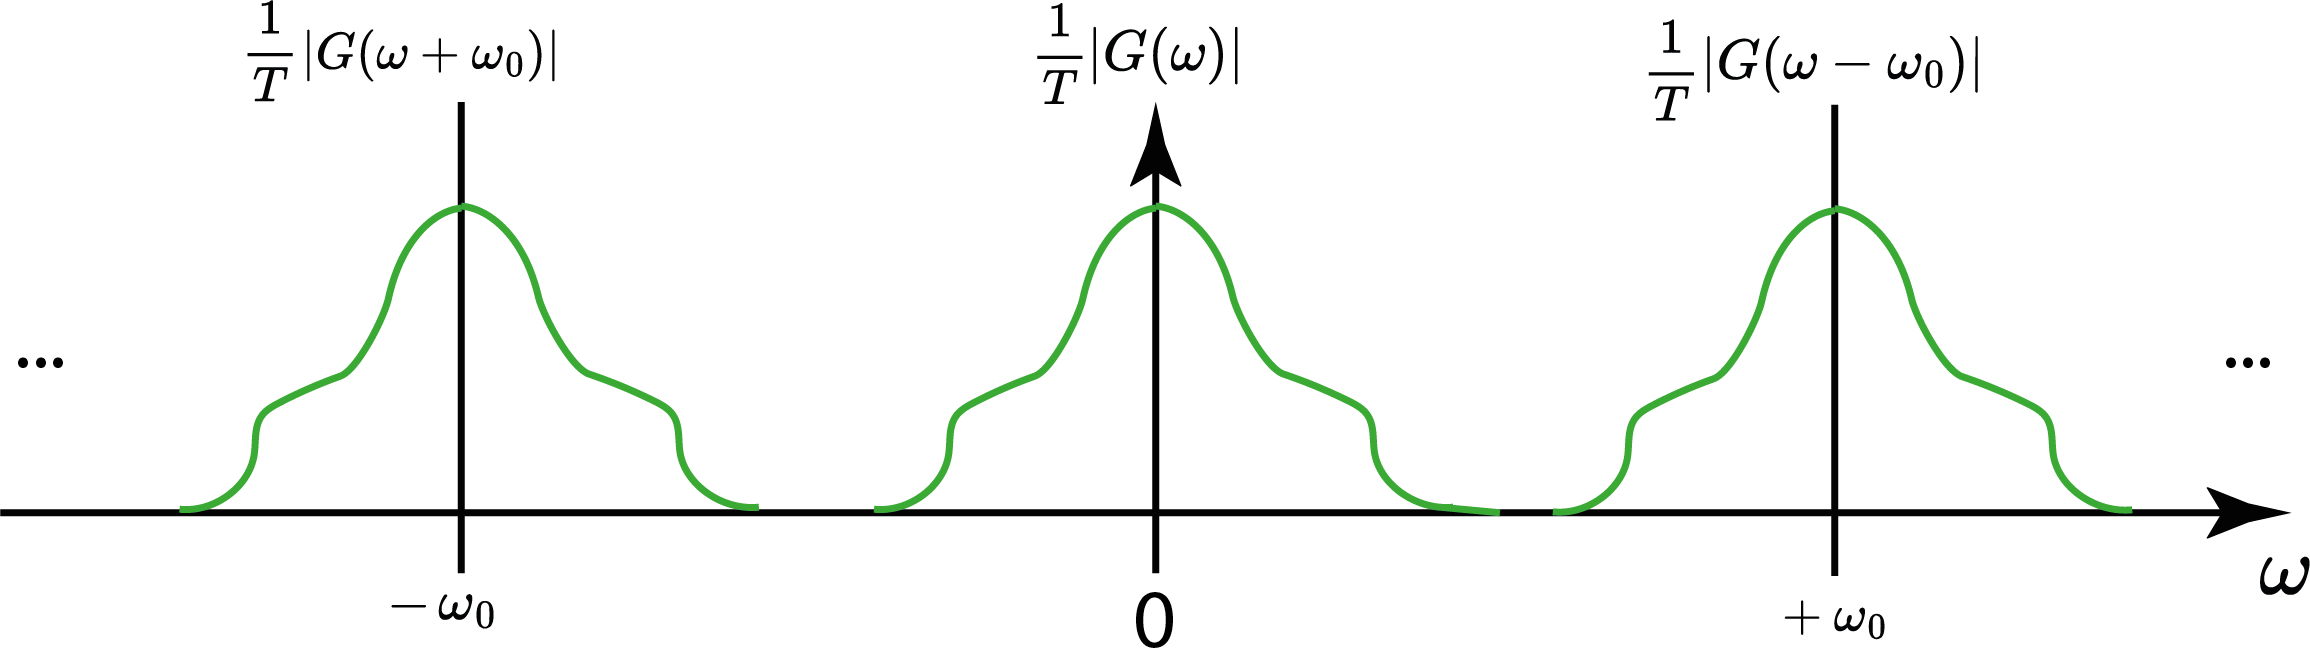
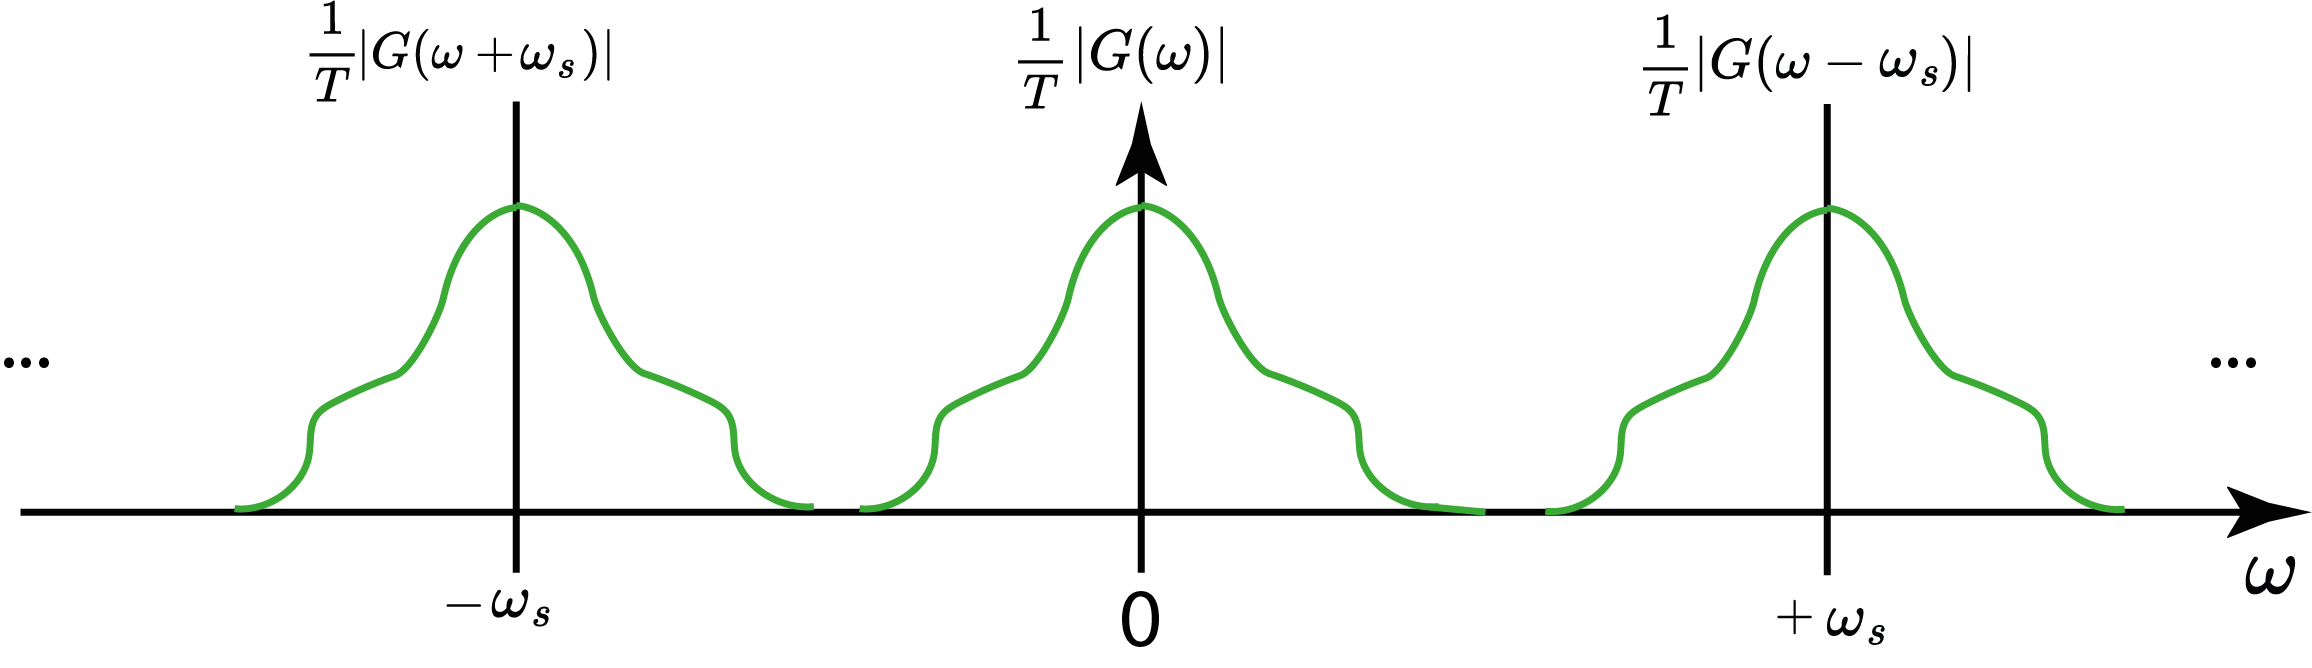
aula 2 updated

diff --git a/2024/aula2.html b/2024/aula2.html
@@ -306,7 +306,7 @@
 					<div class="slide-content">
 						<center>
 							$$
-							p(t)=\sum_{k-\infty}^\infty c_ke^{jk\omega_0 t},\quad\omega_0=\frac{2\pi}{T}
+							p(t)=\sum_{k-\infty}^\infty c_ke^{jk\omega_s t},\quad\omega_s=\frac{2\pi}{T}
 							$$
 										
 						<img src="../images/trem_impulsos.png" width="750" alt="">
@@ -324,7 +324,7 @@
 					<div class="slide-content">
 						<center>
 							$$
-							p(t)=\sum_{k-\infty}^\infty \frac{1}{T}e^{jk\omega_0 t},\quad\omega_0=\frac{2\pi}{T}
+							p(t)=\sum_{k-\infty}^\infty \frac{1}{T}e^{jk\omega_s t},\quad\omega_s=\frac{2\pi}{T}
 							$$
 										
 						<img src="../images/trem_impulsos.png" width="750" alt="">
@@ -345,7 +345,7 @@
 					<div class="slide-content">
 						<center>
 							$$
-							g_a(t)=g(t)p(t)=\sum_{k-\infty}^\infty \frac{1}{T}g(t)e^{jk\omega_0 t}
+							g_a(t)=g(t)p(t)=\sum_{k-\infty}^\infty \frac{1}{T}g(t)e^{jk\omega_s t}
 							$$
 										
 					
@@ -353,11 +353,11 @@
 					</center>
 					<center class="fragment">
 						$$
-						\Rightarrow G_a(\omega)=\mathcal{F}\{g_a(t)\}=\sum_{k-\infty}^\infty \frac{1}{T}\mathcal{F}\{g(t)e^{jk\omega_0 t}\}
+						\Rightarrow G_a(\omega)=\mathcal{F}\{g_a(t)\}=\sum_{k-\infty}^\infty \frac{1}{T}\mathcal{F}\{g(t)e^{jk\omega_s t}\}
 						$$
 					</center>
 					<center class="fragment lightup">
-						$\mathcal{F}\{x(t)e^{j\omega_0t}\}=X(\omega-\omega_0)$
+						$\mathcal{F}\{x(t)e^{j\omega_st}\}=X(\omega-\omega_s)$
 					</center>
 					   </div>
 
@@ -373,7 +373,7 @@
 					<div class="slide-content">
 						<center class="lightup">
 						$$
-						G_a(\omega)=\sum_{k-\infty}^\infty \frac{1}{T}G(\omega-k\omega_0)
+						G_a(\omega)=\sum_{k-\infty}^\infty \frac{1}{T}G(\omega-k\omega_s)
 						$$
 					</center>
 					<center>
@@ -395,7 +395,7 @@
 					<center>
 					<img src="../images/espectro_sinal_amostrado.png">
 					$$
-						\omega_0=\frac{2\pi}{T}
+						\omega_s=\frac{2\pi}{T}
 					$$
 				</center>
 		
@@ -451,9 +451,9 @@
 					</div>
 					<div class="slide-content">
 					<center>
-					<img src="../images/espectro_sinal_amostrado3.png">
+					<img src="../images/sinal_amostrado_distancia.png">
 					$$
-						\omega_0=\frac{2\pi}{T}
+						\omega_s=\frac{2\pi}{T}
 					$$
 				</center>
 		
@@ -474,15 +474,34 @@
 					<center>
 					<img src="../images/espectro_sinal_amostrado2.png">
 					$$
-						\omega_0=\frac{2\pi}{T},\quad \downarrow T
+						\omega_s=\frac{2\pi}{T},\quad \downarrow T
 					$$
-					<p><b>Diminuir o tempo de amostragem</b></p>
+					<p><b>Diminuir o tempo de amostragem aumenta a distância</b></p>
 				</center>
 		
 					   </div>
 
 				</section>
 
+
+
+				<section>
+
+					<div class="slide-title">
+						<h2>Processo de amostragem</h2>
+					</div>
+					<div class="slide-content">
+					<center>
+					<img src="../images/espectro_sinal_amostrado3.png">
+					$$
+						\omega_s=\frac{2\pi}{T},\quad \uparrow T
+					$$
+					<p><b>Aumentar o tempo de amostragem diminui a distância</b></p>
+				</center>
+		
+					   </div>
+
+				</section>
 
 
 				<section>
@@ -493,25 +512,6 @@
 					<div class="slide-content">
 					<center>
 					<img src="../images/espectro_sinal_amostrado4.png">
-					$$
-						\omega_0=\frac{2\pi}{T},\quad \uparrow T
-					$$
-					<p><b>Aumentar o tempo de amostragem</b></p>
-				</center>
-		
-					   </div>
-
-				</section>
-
-
-				<section>
-
-					<div class="slide-title">
-						<h2>Processo de amostragem</h2>
-					</div>
-					<div class="slide-content">
-					<center>
-					<img src="../images/espectro_sinal_amostrado5.png">
 					<p><b>Aliasing!</b></p>
 				</center>
 		
@@ -527,7 +527,7 @@
 					</div>
 					<div class="slide-content">
 					<center>
-					<img src="../images/espectro_sinal_amostrado5_filtro.png">
+					<img src="../images/espectro_sinal_amostrado4_filtro.png">
 					<b>Filtro Ideal</b>
 					$$
 						H(\omega)=\begin{cases} 
@@ -549,10 +549,10 @@
 					</div>
 					<div class="slide-content">
 					<center>
-					<img src="../images/espectro_sinal_amostrado_freqmin.png">
+					<img src="../images/teorema_nyquist.png">
 					<p class="lightup">
 				$
-						\omega_0 \ge 2\omega_M [rads]
+						\omega_s \ge 2\omega_M [rads]
 				$
 			</p>
 				</center>
@@ -571,7 +571,7 @@
 					</div>
 					<div class="slide-content">
 					<center>
-					<img src="../images/espectro_sinal_amostrado_freqmin.png">
+					<img src="../images/teorema_nyquist.png">
 					<p class="lightup">
 				$
 						f_s \ge 2f_M [Hz]
@@ -871,7 +871,7 @@
 					<div class="slide-content">
 					<center>
 						$$
-						\omega_M=30[rads] \Rightarrow \omega_0>60[rads]
+						\omega_M=30[rads] \Rightarrow \omega_s>60[rads]
 						$$
 
 						<img src="../images/espectro_sinal_exp_cos2.png" width="600">
@@ -895,7 +895,7 @@
 						
 						<p class="lightup">
 						$$
-						\omega_0>10\omega_M
+						\omega_s>10\omega_M
 						$$					
 					</p>
 					Para sistemas de controle digital, é uma boa prática adotar sempre frequência de amostragem 10x maior que a frequência máxima contida na saída do sistema.
@@ -969,14 +969,14 @@
 						
 						$$
 						y(t)=y_a(t)\ast h(t)\\
-						=\int_{-\infty}^\infty \sum_{k=-\infty}^\infty y(kT)\delta(\tau-kT)\text{sinc}(\frac{\pi (t-\tau)}{T})d\tau\\
+						=\int_{-\infty}^\infty \sum_{k=-\infty}^\infty y(kT)\delta(\tau-kT)\text{sinc}\Bigl(\frac{\pi (t-\tau)}{T}\Bigr)d\tau\\
 						
 
 						$$				
 						
 						<p class="fragment lightup">
 							Portanto,
-$$y(t)=\sum_{k=-\infty}^\infty y(kT)\text{sinc}(\frac{\pi (t-kT)}{T})$$
+$$y(t)=\sum_{k=-\infty}^\infty y(kT)\text{sinc}\Bigl(\frac{\pi (t-kT)}{T}\Bigr)$$
 
 						</p>
 					
@@ -1148,31 +1148,11 @@ $$y(t)=\sum_{k=-\infty}^\infty y(kT)\text{sinc}(\frac{\pi (t-kT)}{T})$$
 				</section>
 
 
+	
 				<section>
 
 					<div class="slide-title">
-						<h2>Zero Order Hold </h2>
-					</div>
-					<div class="slide-content">
-					<center>
-						<p>&nbsp;</p>
-						
-						<img src="../images/AD_DA_reconstrucao.png" width="800">
-						
-						
-			
-					
-				</center>
-		
-					   </div>
-
-				</section>
-
-
-				<section>
-
-					<div class="slide-title">
-						<h2>Zero Order Hold </h2>
+						<h2>Zero Order Hold (ZOH) </h2>
 					</div>
 					<div class="slide-content">
 					<center>
@@ -1194,7 +1174,7 @@ $$y(t)=\sum_{k=-\infty}^\infty y(kT)\text{sinc}(\frac{\pi (t-kT)}{T})$$
 				<section>
 
 					<div class="slide-title">
-						<h2>Zero Order Hold </h2>
+						<h2>Zero Order Hold (ZOH) </h2>
 					</div>
 					<div class="slide-content">
 					<center>
@@ -1217,7 +1197,7 @@ zoh(t)=u(t)-u(t-T)
 				<section>
 
 					<div class="slide-title">
-						<h2>Zero Order Hold </h2>
+						<h2>Zero Order Hold (ZOH)</h2>
 					</div>
 					<div class="slide-content">
 					<center>
@@ -1239,7 +1219,7 @@ ZOH(s)=\frac{1}{s}-\frac{1}{s}e^{-sT}
 				<section>
 
 					<div class="slide-title">
-						<h2>Zero Order Hold </h2>
+						<h2>Zero Order Hold (ZOH)</h2>
 					</div>
 					<div class="slide-content">
 					<center>
@@ -1269,8 +1249,8 @@ ZOH(s)=\frac{1-e^{-sT}}{s}
 					
 						$$
 ZOH(\omega)=\frac{1-e^{-j\omega T}}{j\omega }\\
-=e^{-j\frac{\omega T}{2}}\Bigl(\frac{e^{j\omega T/2}-e^{-j\omega T/2}}{j\omega}\Bigr)\frac{2T}{2T}\\
-=T\text{sinc}(\frac{\omega T}{2})e^{-j\omega T/2}
+=e^{-j\frac{\omega T}{2}}\Bigl(\frac{e^{j\frac{\omega T}{2}}-e^{-j\frac{\omega T}{2}}}{j\omega}\Bigr)\frac{2T}{2T}\\
+=T\text{sinc}\Bigl(\frac{\omega T}{2}\Bigr)e^{-j\frac{\omega T}{2}}
 						$$
 			
 					
@@ -1292,8 +1272,8 @@ ZOH(\omega)=\frac{1-e^{-j\omega T}}{j\omega }\\
 					
 						$$
 ZOH(\omega)=\frac{1-e^{-j\omega T}}{j\omega }\\
-=e^{-j\frac{\omega T}{2}}\Bigl(\frac{e^{j\omega T/2}-e^{-j\omega T/2}}{j\omega}\Bigr)\frac{2T}{2T}\\
-=T\text{sinc}(\frac{\omega T}{2})e^{-j\omega T/2}
+=e^{-j\frac{\omega T}{2}}\Bigl(\frac{e^{j\frac{\omega T}{2}}-e^{-j\frac{\omega T}{2}}}{j\omega}\Bigr)\frac{2T}{2T}\\
+=T\text{sinc}\Bigl(\frac{\omega T}{2}\Bigr)e^{-j\frac{\omega T}{2}}
 						$$
 			
 					
@@ -1310,7 +1290,7 @@ ZOH(\omega)=\frac{1-e^{-j\omega T}}{j\omega }\\
 				<section>
 
 					<div class="slide-title">
-						<h2>Zero Order Hold </h2>
+						<h2>Zero Order Hold (ZOH)</h2>
 					</div>
 					<div class="slide-content">
 					<center>
